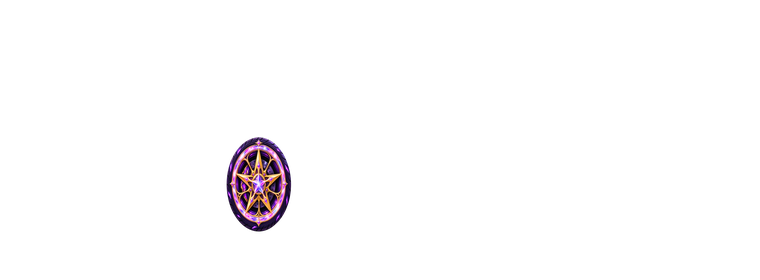
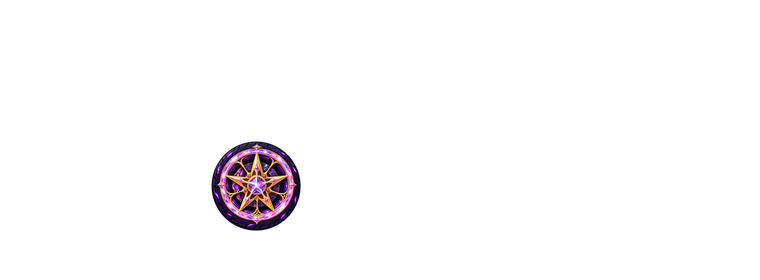
Add files via upload

Changed region(s): [[0.2724, 0.4857, 0.3934, 0.8286]]

diff --git a/boonjump/index.html b/boonjump/index.html
@@ -5,10 +5,10 @@
   <meta name="viewport" content="width=device-width,initial-scale=1,viewport-fit=cover,maximum-scale=1,user-scalable=no">
   <meta name="theme-color" content="#071222">
   <link rel="manifest" href="./manifest.webmanifest">
-  <meta name="description" content="ASOBooNのミニゲーム ブーンジャンプ Ver.2.5.2">
+  <meta name="description" content="ASOBooNのミニゲーム ブーンジャンプ Ver.2.5.9">
   <meta name="robots" content="noindex,nofollow">
-  <meta name="boonjump-build" content="2026-08-11-highway-valkyrie-princess-rhythm-v3">
-  <title>ブーンジャンプ Ver.2.5.2｜ASOBooN</title>
+  <meta name="boonjump-build" content="2026-08-11-stability-princess-wheel-v9">
+  <title>ブーンジャンプ Ver.2.5.9｜ASOBooN</title>
   <style>
 :root{
   --yellow:#ffd83d;--yellow-hi:#fff27a;--yellow-sh:#a96900;
@@ -583,14 +583,14 @@ body.modal-open{overflow:hidden}
 (() => {
   'use strict';
 
-  const APP_VERSION = '2.5.7';
-  const BUILD = '2026-08-11-balance-super-reachability-v7';
+  const APP_VERSION = '2.5.9';
+  const BUILD = '2026-08-11-stability-princess-wheel-v9';
   const SCHEMA = 4;
   const STORE_KEY = 'asoboonBoonjump.v2';
   const BACKUP_KEY = `${STORE_KEY}.backup`;
   const LEGACY_KEY = 'asoboonBooncar.v6';
   const ASSET_ROOT = './assets/cars';
-  const ASSET_VERSION = '256-garage-rarity-balance';
+  const ASSET_VERSION = '259-stability-princess-wheel';
   const reduceMotion = window.matchMedia('(prefers-reduced-motion: reduce)').matches;
   const clamp = (v, min, max) => Math.min(max, Math.max(min, v));
   const lerp = (a, b, t) => a + (b - a) * t;
@@ -676,15 +676,15 @@ body.modal-open{overflow:hidden}
       const move=smoothStep(clamp((beat-.32)/.38,0,1));
       v=lerp(anchors[section],next,move);
     }else if(mode==='princessWaltz'){
-      // PRINCESS 1st: ゆったりした3拍子。理想値 .80 を必ず通り、短いPERFECT LOCKを持つ。
+      // PRINCESS 1st: ゆったりした3拍子。3拍目の頂点で .80 に明確に止まる。
+      // 実機のタッチ入力/rAFのズレを吸収できる約150msのPERFECT LOCKを確保。
       const cycle=p*3,beat=Math.floor(cycle)%3,local=cycle-Math.floor(cycle);
       if(beat===0){
         v=lerp(.12,.46,smoothStep(clamp((local-.16)/.64,0,1)));
       }else if(beat===1){
-        v=lerp(.46,.80,smoothStep(clamp((local-.10)/.84,0,1)));
+        v=lerp(.46,.80,smoothStep(clamp((local-.10)/.78,0,1)));
       }else{
-        // 約70msだけ .80 に留まり、60fpsでも100%が実際に狙える。
-        v=local<.026?.80:lerp(.80,.12,smoothStep(clamp((local-.026)/.73,0,1)));
+        v=local<.075?.80:lerp(.80,.12,smoothStep(clamp((local-.075)/.68,0,1)));
       }
     }else if(mode==='princessSyncopation'){
       // PRINCESS 2nd: 高速の左右シンコペーション。中央 .50 のロックは約44msだけ。
@@ -903,7 +903,7 @@ body.modal-open{overflow:hidden}
     bike:{rear:{x:170,y:170,w:64,h:71},front:{x:542,y:168,w:62,h:70}},
     sport:{rear:{x:185,y:180,w:92,h:92},front:{x:535,y:180,w:92,h:92}},
     ssr:{rear:{x:90,y:172,w:78,h:86},front:{x:518,y:182,w:66,h:73}},
-    princess:{rear:{x:256,y:186,w:98,h:98},front:{x:561,y:186,w:98,h:98}},
+    princess:{rear:{x:256,y:186,w:96,h:96},front:{x:561,y:186,w:96,h:96}},
     valkyrie:{rear:{x:164,y:198,w:98,h:98},front:{x:549,y:201,w:98,h:98}}
   };
   const applyWheelOrigins=(wrap,car)=>{const layout=WHEEL_LAYOUT[car.id];if(!layout)return;const rear=wrap.querySelector('.part-rear'),front=wrap.querySelector('.part-front');if(rear)rear.style.transformOrigin=`${layout.rear.x/7.6}% ${layout.rear.y/2.8}%`;if(front)front.style.transformOrigin=`${layout.front.x/7.6}% ${layout.front.y/2.8}%`;};
@@ -1006,10 +1006,10 @@ body.modal-open{overflow:hidden}
   const setTurboZones=()=>{const cfg=currentCar.control.turbo;el.turboSuper.style.width=`${cfg.super*200}%`;el.turboCritical.style.width=`${cfg.critical*200}%`;el.turboGreat.style.width=`${cfg.great*200}%`;el.turboGood.style.width=`${cfg.good*200}%`;el.turboProfile.textContent=cfg.label;};
   const startAttempt=()=>{document.body.dataset.machine=currentCar.id;el.gameShell.dataset.machine=currentCar.id;if(!getRecord(currentCar.id).owned)return showGacha();clearRun();attempt={carId:currentCar.id,start:null,turbo:null,nitro:null,rpm:0,turboPosition:.5,startQuality:0,turboQuality:0,nitroQuality:0};phase='start';setNavigationLock(true);setShield(false);setGameVehicle({revving:true,rolling:true});configureProgress(0);el.phaseCount.textContent='1 / 3';el.phaseTag.textContent='3 COMBO · 1';el.phaseTitle.textContent=currentCar.skill==='valkyrie'?'ACCEL':'アクセル';el.phaseHint.textContent=currentCar.control.accel.label;el.rpmMeter.hidden=false;el.turboMeter.hidden=true;el.tap.querySelector('span').textContent='タップ！';el.tapSub.textContent=currentCar.skill==='valkyrie'?'戦乙女に走りを示せ':'アクセルを決める';setTachTarget();showScreen('game');phaseStart=performance.now();phaseRAF=requestAnimationFrame(updateStartMeter);};
   const updateStartMeter=now=>{if(phase!=='start')return;const cfg=currentCar.control.accel,elapsed=now-phaseStart;rpmValue=motionValue(cfg.mode,elapsed,cfg,cfg.ideal);const angle=tachNeedleAngle(rpmValue);el.rpmNeedle.style.transform=`rotate(${angle}deg)`;el.rpmNumber.textContent=Math.round(rpmValue*9000).toLocaleString();phaseRAF=requestAnimationFrame(updateStartMeter);};
-  const lockStart=()=>{if(phase!=='start')return;cancelAnimationFrame(phaseRAF);phase='transition';setShield(true);const cfg=currentCar.control.accel,error=Math.abs(rpmValue-cfg.ideal),judge=judgeByThreshold(error,cfg);let q=qualityFromError(error,cfg,.18);if(currentCar.skill==='recovery'&&judge==='MISS')q=Math.max(q,.48);if(currentCar.skill==='powerStart'&&JUDGE_LEVEL[judge]>=3)q=Math.min(1.08,q+.08);attempt.rpm=rpmValue;attempt.start=judge;attempt.startQuality=q;setGameVehicle({rolling:true});showJudge('アクセル',judge,0);configureProgress(1,[judge]);schedule(startTurboPhase,reduceMotion?120:judge==='SUPER'?680:500);};
+  const lockStart=()=>{if(phase!=='start')return;cancelAnimationFrame(phaseRAF);phase='transition';setShield(true);const cfg=currentCar.control.accel,error=Math.abs(rpmValue-cfg.ideal),judge=judgeByThreshold(error,cfg);let q=qualityFromError(error,cfg,.18);if(judge==='SUPER')q=1;if(currentCar.skill==='recovery'&&judge==='MISS')q=Math.max(q,.48);if(currentCar.skill==='powerStart'&&JUDGE_LEVEL[judge]>=3)q=Math.min(1.08,q+.08);attempt.rpm=rpmValue;attempt.start=judge;attempt.startQuality=q;setGameVehicle({rolling:true});showJudge('アクセル',judge,0);configureProgress(1,[judge]);schedule(startTurboPhase,reduceMotion?120:judge==='SUPER'?680:500);};
   const startTurboPhase=()=>{phase='turbo';setShield(false);el.superOverlay.classList.remove('show');el.phaseCount.textContent='2 / 3';el.phaseTag.textContent='3 COMBO · 2';el.phaseTitle.textContent=currentCar.skill==='valkyrie'?'SHIFT':'ターボ';el.phaseHint.textContent=currentCar.control.turbo.label;el.rpmMeter.hidden=true;el.turboMeter.hidden=false;el.tap.querySelector('span').textContent='タップ！';el.tapSub.textContent=currentCar.skill==='valkyrie'?'6速を射抜け':'ターボを決める';setTurboZones();phaseStart=performance.now();phaseRAF=requestAnimationFrame(updateTurboMeter);};
   const updateTurboMeter=now=>{if(phase!=='turbo')return;const cfg=currentCar.control.turbo,elapsed=now-phaseStart;turboValue=motionValue(cfg.mode,elapsed,cfg,.5);el.turboCursor.style.left=`${turboValue*100}%`;el.turboNumber.textContent=Math.round(Math.abs(turboValue-.5)*200);phaseRAF=requestAnimationFrame(updateTurboMeter);};
-  const lockTurbo=()=>{if(phase!=='turbo')return;cancelAnimationFrame(phaseRAF);phase='transition';setShield(true);const cfg=currentCar.control.turbo,error=Math.abs(turboValue-.5),judge=judgeByThreshold(error,cfg);let q=qualityFromError(error,cfg,.20);if(currentCar.skill==='stable')q=Math.max(q,.67);attempt.turboPosition=turboValue;attempt.turbo=judge;attempt.turboQuality=q;showJudge('ターボ',judge,1);configureProgress(2,[attempt.start,judge]);schedule(beginFlight,reduceMotion?130:judge==='SUPER'?700:510);};
+  const lockTurbo=()=>{if(phase!=='turbo')return;cancelAnimationFrame(phaseRAF);phase='transition';setShield(true);const cfg=currentCar.control.turbo,error=Math.abs(turboValue-.5),judge=judgeByThreshold(error,cfg);let q=qualityFromError(error,cfg,.20);if(judge==='SUPER')q=1;if(currentCar.skill==='stable')q=Math.max(q,.67);attempt.turboPosition=turboValue;attempt.turbo=judge;attempt.turboQuality=q;showJudge('ターボ',judge,1);configureProgress(2,[attempt.start,judge]);schedule(beginFlight,reduceMotion?130:judge==='SUPER'?700:510);};
 
   const resizeCanvas=()=>{const rect=el.canvas.getBoundingClientRect(),dpr=Math.min(2,window.devicePixelRatio||1);canvasMetrics={w:Math.max(1,rect.width),h:Math.max(1,rect.height),dpr};el.canvas.width=Math.round(canvasMetrics.w*dpr);el.canvas.height=Math.round(canvasMetrics.h*dpr);ctx=el.canvas.getContext('2d');ctx.setTransform(dpr,0,0,dpr,0,0);};
   const beginFlight=()=>{phase='flight';el.flightScreen.dataset.machine=currentCar.id;setShield(false);el.superOverlay.classList.remove('show');showScreen('flight');resizeCanvas();pulseClass(el.flightScreen,'fx-launch',620);flashImpact('accel',attempt.start);const car=currentCar,rec=getRecord(car.id),tune=1+tuneRate(car.id),startFactor=car.skill==='rocket'?rocketGradeFactor(attempt.start):.61+attempt.startQuality*.49,turboFactor=car.skill==='rocket'?rocketGradeFactor(attempt.turbo):.76+attempt.turboQuality*.32,speed=car.baseSpeed*startFactor*turboFactor*tune,rad=car.launchAngle*Math.PI/180,synergy=[attempt.start,attempt.turbo].filter(j=>JUDGE_LEVEL[j]>=3).length,star=car.skill==='star'?1+synergy*.035:1,powerStart=car.skill==='powerStart'&&JUDGE_LEVEL[attempt.start]>=3?1.08:(car.skill==='powerStart'&&JUDGE_LEVEL[attempt.start]<=1?.93:1),vx=speed*Math.cos(rad)*powerStart*star,vy=speed*Math.sin(rad)*(car.skill==='rocket'?1.08:1);flight={x:0,y:0,vx,vy,time:0,distanceScale:car.distanceScale||1,lastReal:performance.now(),nitroStartReal:performance.now()+260,nitroProgress:0,nitroUsed:false,nitroJudge:null,nitroQuality:0,bounceCount:0,maxHeight:0,cameraX:0,startContribution:Math.max(0,Math.round((speed-65)*6.4*(car.distanceScale||1))),turboContribution:Math.max(0,Math.round(attempt.turboQuality*690*(car.distanceScale||1))),nitroContribution:0,recordLine:rec.best||0,rawCap:car.rawCap,finalCap:car.finalCap,particles:[],trail:[],wheelAngle:0,nitroFlash:0,cameraShake:.65,cameraZoom:.45,cameraKick:.7,landingFx:false,finishAt:0,finished:false,nitroAnnounced:false};for(let i=0;i<34;i++)flight.particles.push({x:-5-Math.random()*10,y:Math.random()*8,vx:-28-Math.random()*72,vy:(Math.random()-.35)*34,life:.45+Math.random()*.55,size:2+Math.random()*5,gravity:10,drag:1.8,hue:i%4===0?42:null});el.flightDistance.textContent='0m';el.flightName.textContent=car.name;const nc=car.control.nitro;el.nitroLane.style.setProperty('--orb-size',`${nc.orb}px`);el.nitroLane.style.setProperty('--target-size',`${nc.target}px`);el.nitroLane.className='nitro-lane';el.nitroOrb.style.top='0%';el.nitroOrb.style.left='50%';el.boost.className='boost-button waiting';el.boost.querySelector('span').textContent='タップ！';el.boost.querySelector('small').textContent=car.skill==='valkyrie'?'OVERDRIVE｜リングを射抜け':'丸をリングに重ねる';el.boostCall.textContent=`3 COMBO · 3｜${nc.label}`;Sound.launch();vibrate([55,28,75]);flightRAF=requestAnimationFrame(flightLoop);};
@@ -1070,7 +1070,7 @@ body.modal-open{overflow:hidden}
   const worldToScreen=(x,y)=>({x:(x-flight.cameraX)*.72+canvasMetrics.w*.18,y:canvasMetrics.h*.72-y*.68});
   const drawFlight=()=>{if(!ctx||!flight)return;const{w,h}=canvasMetrics,car=currentCar,f=flight;ctx.clearRect(0,0,w,h);const shake=f.cameraShake||0,zoom=1+(f.cameraZoom||0)*.045,kick=f.cameraKick||0,dx=Math.sin(f.time*93)*shake*7-kick*5,dy=Math.cos(f.time*71)*shake*4;ctx.save();ctx.translate(w/2+dx,h/2+dy);ctx.scale(zoom,zoom);ctx.translate(-w/2,-h/2);const altitudeT=clamp(f.maxHeight/750,0,1),distanceT=clamp((f.x*f.distanceScale)/(car.skill==='rocket'?5000:3000),0,1),spaceT=clamp(altitudeT*.75+distanceT*.5-.38,0,1),grad=ctx.createLinearGradient(0,0,0,h);grad.addColorStop(0,colorMix('#123a88','#02030e',spaceT));grad.addColorStop(.7,colorMix('#83dcff','#311657',clamp(spaceT*1.15,0,1)));grad.addColorStop(1,'#152038');ctx.fillStyle=grad;ctx.fillRect(0,0,w,h);drawStars(spaceT,w,h,f.time);drawSpeedLines(w,h);drawClouds(w,h,altitudeT);drawCity(w,h,distanceT);drawGround(w,h);drawLandmarks(w);drawRecordLine(w);drawTrail(car);drawCar(car);drawShockwave();drawParticles();if(car.skill==='warp')drawWarp(w,h,f.time,spaceT);if(car.skill==='star'&&f.nitroUsed&&JUDGE_LEVEL[f.nitroJudge]>=3)drawRainbow(w,h);ctx.restore();};
   const drawSpeedLines=(w,h)=>{const f=flight,speed=Math.hypot(f.vx,f.vy),intensity=clamp((speed-58)/92,0,1)+Math.min(1.15,f.nitroFlash||0);if(intensity<=.04)return;ctx.save();ctx.globalCompositeOperation='lighter';ctx.lineCap='round';for(let i=0;i<52;i++){const seed=(i*47.13+f.time*215)%(w+h),y=(i*83.7+f.time*54)%(h*.78),len=38+((i*19)%105)*intensity,x=(seed%(w+180))-110;ctx.globalAlpha=clamp((.08+(i%6)*.026)*intensity,0,.52);ctx.strokeStyle=i%8===0?'#fff4a8':i%5===0?'#79edff':'#eafcff';ctx.lineWidth=1.2+(i%4)*.85;ctx.beginPath();ctx.moveTo(x,y);ctx.lineTo(x-len,y+len*.06);ctx.stroke();}ctx.restore();};
-  const drawShockwave=()=>{const f=flight;if(!f.nitroFlash)return;const p=worldToScreen(f.x,f.y),t=1-f.nitroFlash;ctx.save();ctx.globalCompositeOperation='screen';ctx.translate(p.x,p.y);for(let i=0;i<3;i++){ctx.globalAlpha=clamp(f.nitroFlash*(.72-i*.12),0,1);ctx.strokeStyle=i===0?'#fff':'#78ecff';ctx.lineWidth=5-i;ctx.beginPath();ctx.arc(0,0,22+t*150+i*16,0,Math.PI*2);ctx.stroke();}ctx.restore();};
+  const drawShockwave=()=>{const f=flight;if(!f.nitroFlash)return;const p=worldToScreen(f.x,f.y),pulse=clamp(1-Math.min(1,f.nitroFlash),0,1);ctx.save();ctx.globalCompositeOperation='screen';ctx.translate(p.x,p.y);for(let i=0;i<3;i++){ctx.globalAlpha=clamp(f.nitroFlash*(.72-i*.12),0,1);ctx.strokeStyle=i===0?'#fff':'#78ecff';ctx.lineWidth=5-i;ctx.beginPath();ctx.arc(0,0,Math.max(1,22+pulse*150+i*16),0,Math.PI*2);ctx.stroke();}ctx.restore();};
   const drawStars=(spaceT,w,h,time)=>{if(spaceT<=.04)return;ctx.save();for(let i=0;i<55;i++){const x=((i*97.3+flight.cameraX*.035)%(w+70))-35,y=18+((i*43.7)%(h*.62)),r=.6+((i*17)%3)*.45;ctx.fillStyle=i%8===0?'#ffe784':'#fff';ctx.globalAlpha=spaceT*(.45+.55*Math.abs(Math.sin(time*1.8+i)));ctx.beginPath();ctx.arc(x,y,r,0,Math.PI*2);ctx.fill();}ctx.restore();};
   const drawClouds=(w,h,altitudeT)=>{ctx.save();ctx.globalAlpha=clamp(1-altitudeT*.9,.12,.8);for(let i=0;i<8;i++){const p=worldToScreen(i*460+240,180+(i%3)*115);if(p.x<-150||p.x>w+150)continue;ctx.fillStyle='rgba(255,255,255,.72)';ctx.beginPath();ctx.ellipse(p.x,p.y,58,22,0,0,Math.PI*2);ctx.ellipse(p.x-32,p.y+4,36,17,0,0,Math.PI*2);ctx.ellipse(p.x+35,p.y+5,42,18,0,0,Math.PI*2);ctx.fill();}ctx.restore();};
   const drawCity=(w,h,distanceT)=>{const gy=h*.72;ctx.save();ctx.globalAlpha=clamp(1-distanceT*1.3,.08,.45);ctx.fillStyle='#153d56';for(let i=0;i<30;i++){const x=((i*79-flight.cameraX*.18)%(w+120))-60,bh=25+(i*31%75);ctx.fillRect(x,gy-bh,35+(i%4)*10,bh);}ctx.restore();};
@@ -1233,7 +1233,7 @@ body.modal-open{overflow:hidden}
   const bootTrophies=refreshTrophies(false);save();clearLegacyCaches();renderHome();renderGarage();showScreen('home');setRankingNameUi();setTimeout(()=>BOON_RANKING.prefetchDashboard&&BOON_RANKING.prefetchDashboard({force:false}),250);if(bootTrophies.some(t=>t.id==='trophyComplete'))setTimeout(()=>queueTrophy(bootTrophies.find(t=>t.id==='trophyComplete')),650);
 
   if('serviceWorker' in navigator){
-    window.addEventListener('load',()=>navigator.serviceWorker.register('./sw.js?v=255-princess-visual-refresh',{updateViaCache:'none'}).then(reg=>{reg.update().catch(()=>{});
+    window.addEventListener('load',()=>navigator.serviceWorker.register('./sw.js?v=259-stability-princess-wheel',{updateViaCache:'none'}).then(reg=>{reg.update().catch(()=>{});
       reg.update().catch(()=>{});
       reg.addEventListener('updatefound',()=>{const worker=reg.installing;if(!worker)return;worker.addEventListener('statechange',()=>{if(worker.state==='installed'&&navigator.serviceWorker.controller)worker.postMessage({type:'SKIP_WAITING'});});});
     }).catch(()=>{}));

diff --git a/boonjump/sw.js b/boonjump/sw.js
@@ -1,4 +1,4 @@
-const BUILD = "2026-08-11-balance-super-reachability-v7";
+const BUILD = "2026-08-11-stability-princess-wheel-v9";
 const STATIC_CACHE = `boonjump-static-${BUILD}`;
 const IMAGE_CACHE = `boonjump-images-${BUILD}`;
 const PRECACHE = [
